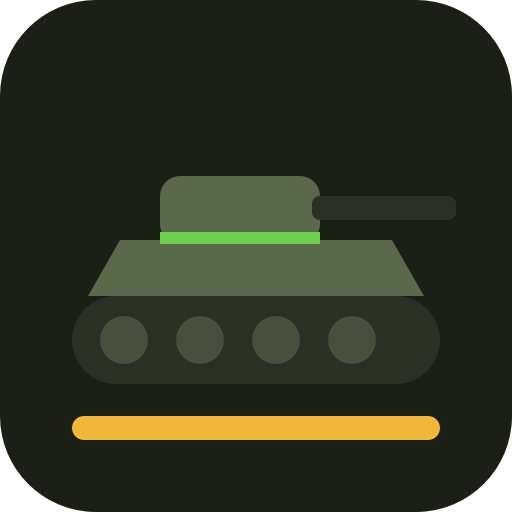
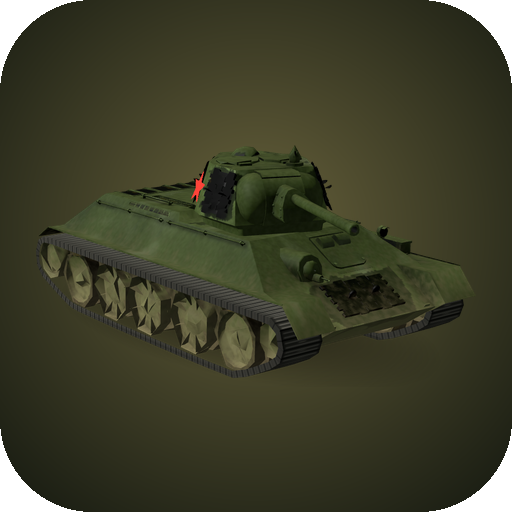
Иконка приложения: рендер Т-34 — обычная 192, адаптивная (передний план, фон) и монохромная для тематических значков; та же картинка в карточке магазина; версия 4.3.1
Claude-Session: https://claude.ai/code/session_01JFHXuXe3wzo5Qc1iYqZPPf

diff --git a/store/RUSTORE.md b/store/RUSTORE.md
@@ -7,8 +7,8 @@
 
 | Что | Где |
 |---|---|
-| APK 4.3 (arm64, подпись v2+v3, 179 МБ) | `build/SteelAssault.apk` — отправлен в чат |
-| Иконка 512×512 | `store/icon_512.png` |
+| APK 4.3.1 (arm64, подпись v2+v3, 179 МБ, своя иконка) | `build/SteelAssault.apk` — отправлен в чат |
+| Иконка 512×512 (та же картинка, что на телефоне: `godot/icons/`) | `store/icon_512.png` |
 | 7 скриншотов 1920×1080 | `store/screens/` |
 | Название, краткое и полное описание, категория, возраст, «Что нового» | `store/listing_ru.md` |
 | Политика конфиденциальности | `docs/privacy.html` → ссылка после шага 1 |
@@ -55,7 +55,7 @@
 
 ## Обновления
 
-1. Я поднимаю `version/code` (сейчас 36) и собираю APK тем же ключом.
+1. Я поднимаю `version/code` (сейчас 37) и собираю APK тем же ключом.
 2. В консоли: «Новая версия» → загрузить APK → «Что нового» → на модерацию.
 
 Ключ хранится только в `build/` контейнера, а он одноразовый. В новой сессии понадобятся ваши сохранённые
